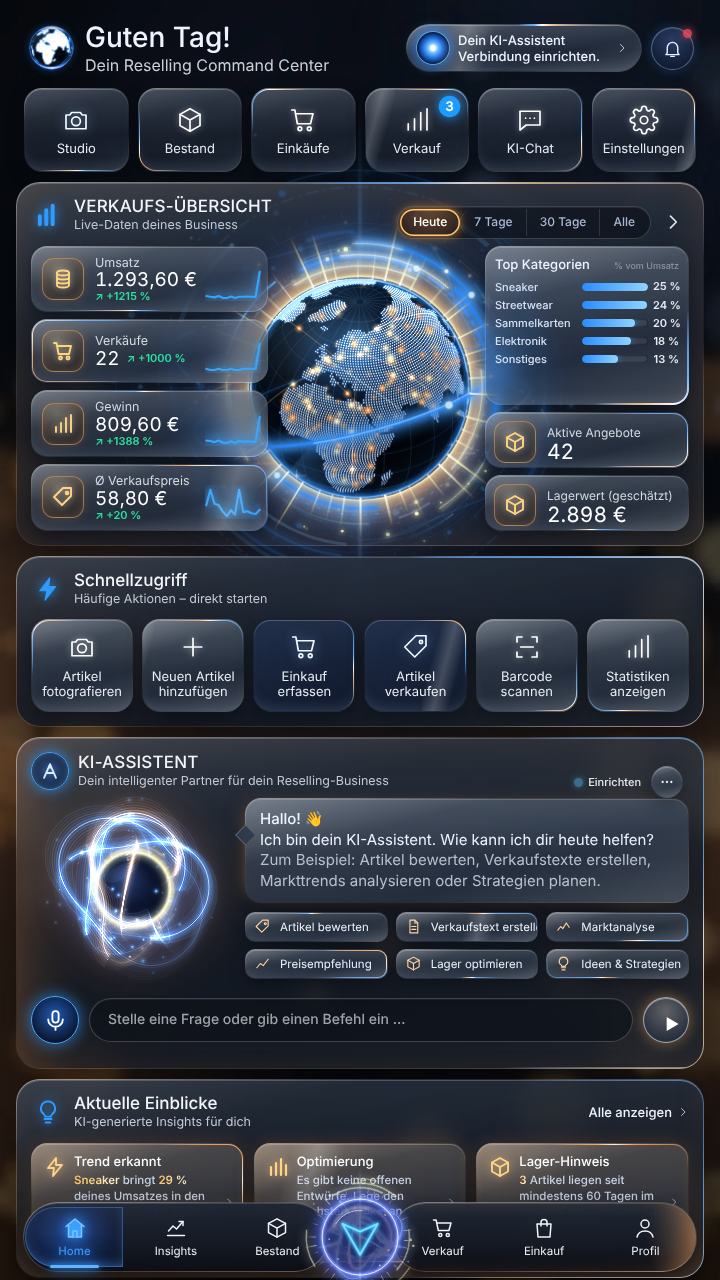
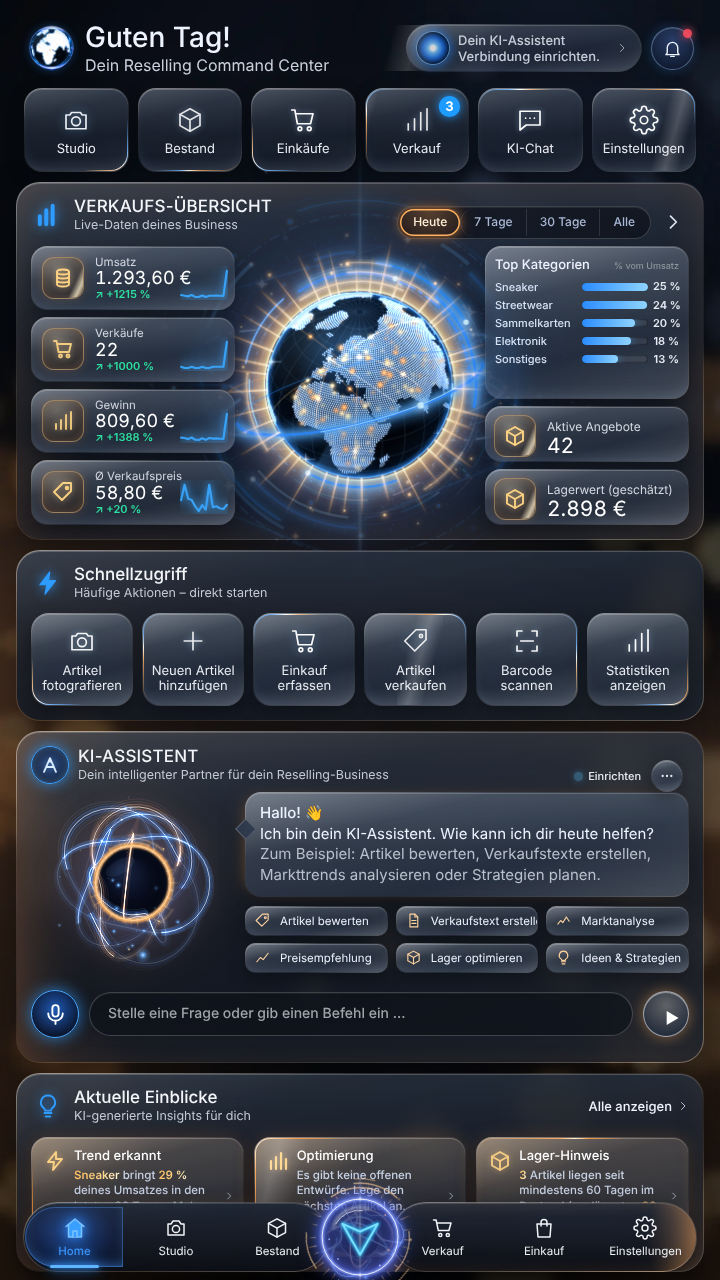
Globus kleiner, Kennzahlen schmaler, KI-Pill blinkt sanft, Menü mit Studio und Einstellungen
- Globus kleiner, Kennzahlenspalte so breit wie die rechte Spalte, Globus mittig
- KI-Leiste oben pulsiert minimal und langsam
- Schnellzugriff: Einkauf erfassen und Artikel verkaufen in derselben Glasfarbe
- Menü: Studio statt Insights, Einstellungen statt Profil

Claude-Session: https://claude.ai/code/session_0194bcZ5PbUBuV3hzmwdGD96

diff --git a/public/index.html b/public/index.html
@@ -1042,13 +1042,13 @@
 <div class="cc-frame" aria-hidden="true"></div>
 <nav class="bottomnav lux-bottomnav" id="bottomnav" aria-label="Hauptnavigation">
 <button id="navHome" class="selected" aria-current="page"><svg viewBox="0 0 24 24" fill="none" stroke="currentColor" stroke-width="1.7" stroke-linecap="round" stroke-linejoin="round" aria-hidden="true"><path d="m3 10.5 9-7.5 9 7.5"/><path d="M5.5 8.6V21h13V8.6"/><path d="M10 21v-6h4v6"/></svg><span>Home</span></button>
-<button id="navFinance"><svg viewBox="0 0 24 24" fill="none" stroke="currentColor" stroke-width="1.7" stroke-linecap="round" stroke-linejoin="round" aria-hidden="true"><path d="M3.5 19.5h17"/><path d="m4.5 15 4.5-5 3.5 3 6.5-7.5"/><path d="M15 5.5h4v4"/></svg><span>Insights</span></button>
+<button id="navStudio" aria-label="Studio: neuen Artikel anlegen"><svg viewBox="0 0 24 24" fill="none" stroke="currentColor" stroke-width="1.7" stroke-linecap="round" stroke-linejoin="round" aria-hidden="true"><path d="M4 8h3l2-3h6l2 3h3v11H4z"/><circle cx="12" cy="13" r="3.6"/></svg><span>Studio</span></button>
 <button id="navStock"><svg viewBox="0 0 24 24" fill="none" stroke="currentColor" stroke-width="1.7" stroke-linecap="round" stroke-linejoin="round" aria-hidden="true"><path d="m12 2.8 8.5 4.6v9.2L12 21.2l-8.5-4.6V7.4z"/><path d="m3.5 7.4 8.5 4.7 8.5-4.7M12 12.1v9.1"/></svg><span>Bestand</span></button>
 <button id="navChat" class="orb" aria-label="KI-Chat"></button>
 <button id="navSales"><svg viewBox="0 0 24 24" fill="none" stroke="currentColor" stroke-width="1.7" stroke-linecap="round" stroke-linejoin="round" aria-hidden="true"><path d="M2.5 4h2.6l2.2 10.5h10.6l2.1-7.5H6.3"/><circle cx="9.3" cy="19" r="1.6"/><circle cx="16.8" cy="19" r="1.6"/></svg><span>Verkauf</span></button>
 <button id="navPurchases"><svg viewBox="0 0 24 24" fill="none" stroke="currentColor" stroke-width="1.7" stroke-linecap="round" stroke-linejoin="round" aria-hidden="true"><path d="M5 8h14l-1 13H6L5 8Z"/><path d="M9 10V6.5a3 3 0 0 1 6 0V10"/></svg><span>Einkauf</span></button>
-<button id="navSettings"><svg viewBox="0 0 24 24" fill="none" stroke="currentColor" stroke-width="1.7" stroke-linecap="round" stroke-linejoin="round" aria-hidden="true"><circle cx="12" cy="8" r="4"/><path d="M4 21c1-4 4-6 8-6s7 2 8 6"/></svg><span>Profil</span></button>
-<button id="navStudio" class="cc-nav-hidden" tabindex="-1" aria-hidden="true"><span>Studio</span></button>
+<button id="navSettings"><svg viewBox="0 0 24 24" fill="none" stroke="currentColor" stroke-width="1.7" stroke-linecap="round" stroke-linejoin="round" aria-hidden="true"><circle cx="12" cy="12" r="3"/><path d="M19.4 15a1.7 1.7 0 0 0 .3 1.8l.1.1a2 2 0 1 1-2.8 2.8l-.1-.1a1.7 1.7 0 0 0-1.8-.3 1.7 1.7 0 0 0-1 1.5V21a2 2 0 1 1-4 0v-.1a1.7 1.7 0 0 0-1.1-1.5 1.7 1.7 0 0 0-1.8.3l-.1.1a2 2 0 1 1-2.8-2.8l.1-.1a1.7 1.7 0 0 0 .3-1.8 1.7 1.7 0 0 0-1.5-1H3a2 2 0 1 1 0-4h.1a1.7 1.7 0 0 0 1.5-1.1 1.7 1.7 0 0 0-.3-1.8l-.1-.1a2 2 0 1 1 2.8-2.8l.1.1a1.7 1.7 0 0 0 1.8.3H9a1.7 1.7 0 0 0 1-1.5V3a2 2 0 1 1 4 0v.1a1.7 1.7 0 0 0 1 1.5 1.7 1.7 0 0 0 1.8-.3l.1-.1a2 2 0 1 1 2.8 2.8l-.1.1a1.7 1.7 0 0 0-.3 1.8V9a1.7 1.7 0 0 0 1.5 1H21a2 2 0 1 1 0 4h-.1a1.7 1.7 0 0 0-1.5 1z"/></svg><span>Einstellungen</span></button>
+<button id="navFinance" class="cc-nav-hidden" tabindex="-1" aria-hidden="true"><span>Insights</span></button>
 </nav>
 <section id="finance" class="wrap hidden lux-finance-page">
 <div class="page-head finance-head">

diff --git a/public/dashboard.js b/public/dashboard.js
@@ -207,6 +207,7 @@ function bind(){
   var bell=$('v11Bell');if(bell)bell.addEventListener('click',function(){click('rvNotify')});
   var sales=$('navSales');if(sales)sales.addEventListener('click',function(){click('navStock');setTimeout(function(){var tab=document.querySelector('[data-v5-tab="all"]');if(tab)tab.click();var f=document.querySelector('[data-stock-filter="sold"]');if(f)f.click();var e=$('navSales');if(e){document.querySelectorAll('#bottomnav button').forEach(function(b){b.classList.toggle('selected',b===e);if(b===e)b.setAttribute('aria-current','page');else b.removeAttribute('aria-current')})}},90)});
   var mic=document.querySelector('#v11Root .rv-crafted-chat-icon');if(mic){mic.addEventListener('click',listen)}
+  var ns=$('navStudio');if(ns)ns.addEventListener('click',function(){setTimeout(function(){document.querySelectorAll('#bottomnav button').forEach(function(b){var on=b===ns;b.classList.toggle('selected',on);if(on)b.setAttribute('aria-current','page');else b.removeAttribute('aria-current')})},60)});
   var np=$('navPurchases');if(np)np.addEventListener('click',function(){actions.purchases();setTimeout(function(){document.querySelectorAll('#bottomnav button').forEach(function(b){var on=b===np;b.classList.toggle('selected',on);if(on)b.setAttribute('aria-current','page');else b.removeAttribute('aria-current')})},200)});
   var more2=$('ccAiMore');if(more2)more2.addEventListener('click',function(e){e.stopPropagation();var st=more2.parentNode,open=!st.classList.contains('cc-open');st.classList.toggle('cc-open',open);more2.setAttribute('aria-expanded',open?'true':'false')});
   document.addEventListener('click',function(e){var st=document.querySelector('#v11Root .v11-state.cc-open');if(st&&!st.contains(e.target)){st.classList.remove('cc-open');if(more2)more2.setAttribute('aria-expanded','false')}});

diff --git a/public/theme.css b/public/theme.css
@@ -918,3 +918,20 @@ body:has(#home:not(.hidden))::before { background:none !important; display:none 
 @keyframes cc-rimglow { 0%,100% { opacity:.45; } 55% { opacity:1; } }
 @media (prefers-reduced-motion: reduce) { .cc-gold-rim { animation:none; } }
 #bottomnav.lux-bottomnav { zoom:var(--cc-zoom,1); }
+
+/* Runde: Globus kleiner, Kennzahlen schmaler, KI-Pill blinkt sanft, Schnellzugriff einheitlich */
+.v15-globe-wrap { width:280px !important; height:280px !important; }
+@media(min-width:1000px) { .v15-globe-wrap { width:370px !important; height:370px !important; } }
+.v11-sales .body { grid-template-columns:minmax(0,31%) minmax(0,38%) minmax(0,31%) !important; }
+.v11-m .val { font-size:18px !important; }
+.v11-m.has-trend .tx { padding-right:46px !important; }
+.v11-m svg.spark { width:48px !important; }
+.v11-pill { animation:cc-pillblink 5s ease-in-out infinite; }
+@keyframes cc-pillblink { 0%,100% { opacity:1; box-shadow:0 0 0 rgba(61,155,255,0), inset 0 1px 0 rgba(255,255,255,.18); } 50% { opacity:.82; box-shadow:0 0 14px rgba(61,155,255,.35), inset 0 1px 0 rgba(255,255,255,.18); } }
+.v11-q.red, .v11-q.gold { background:
+    linear-gradient(180deg, rgba(185,205,230,.16), rgba(120,140,170,.07) 55%, rgba(90,110,140,.10)) padding-box,
+    linear-gradient(180deg, rgba(20,30,46,.35), rgba(20,30,46,.35)) padding-box,
+    linear-gradient(165deg, rgba(255,255,255,.55), rgba(255,255,255,.14) 30%, rgba(255,255,255,.06) 65%, rgba(255,255,255,.28)) border-box !important; }
+.v11-q.red .ic { color:#fff !important; }
+@media (prefers-reduced-motion: reduce) { .v11-pill { animation:none; } }
+.v11-m .lbl { font-size:11.5px !important; text-overflow:clip !important; overflow:visible !important; }

diff --git a/public/sw.js b/public/sw.js
@@ -1,4 +1,4 @@
-const CACHE='rv-studio-v20-3';
+const CACHE='rv-studio-v20-4';
 const FILES=['/','/index.html','/app.css','/dashboard.css','/fx.css','/ref.css','/theme.css','/stock.css','/pages.css','/perf.css','/app.js','/dashboard.js','/fx.js','/demo.js',
   '/vendor/jszip.min.js','/fonts/command-sans-regular.otf','/fonts/command-sans-bold.otf',
   '/rv-logo.jpg','/rv-ai-mascot.png','/rv-robot-premium.png','/rv-white.png',
